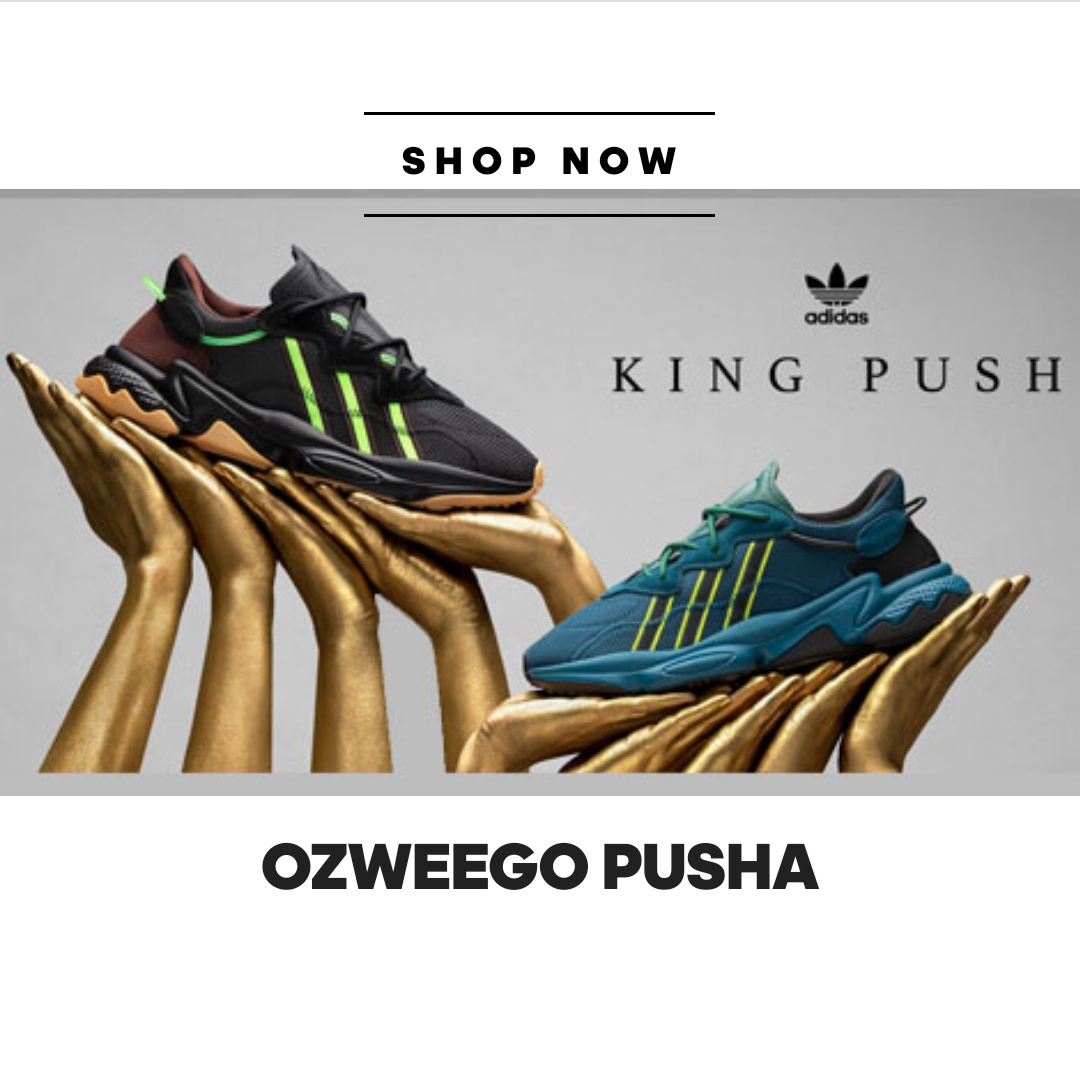
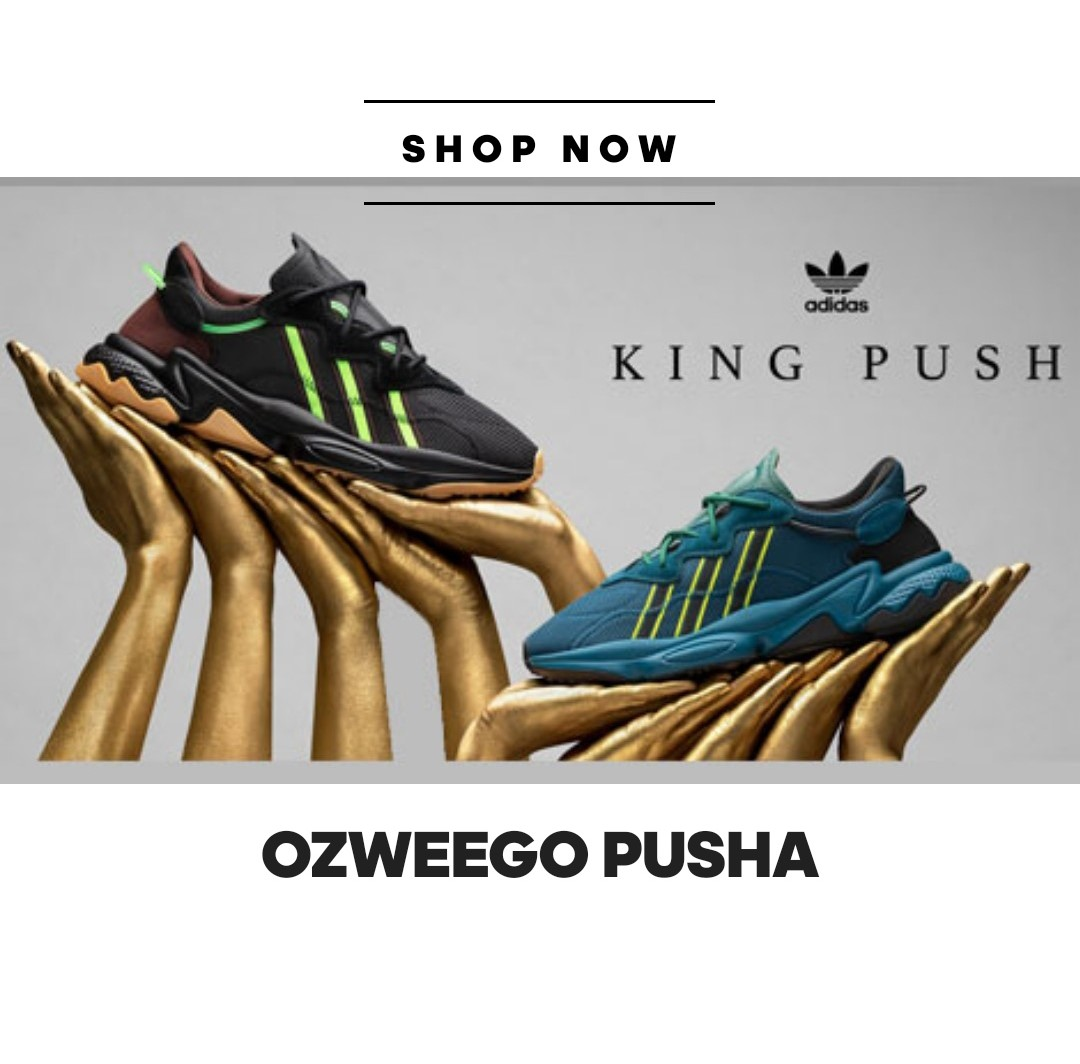
favourite page done

diff --git a/lib/widgets/favourite_page/card_brand.dart b/lib/widgets/favourite_page/card_brand.dart
@@ -2,40 +2,72 @@ import 'package:flutter/material.dart';
 import 'package:shoes/widgets/favourite_page/top_brand.dart';
 
 class CardBrand extends StatelessWidget {
+  String name;
+  String desc;
+  String image;
+  CardBrand(String dataName, String dataDesc, String dataImage) {
+    this.name = dataName;
+    this.desc = dataDesc;
+    this.image = dataImage;
+  }
   @override
   Widget build(BuildContext context) {
     return Container(
       width: MediaQuery.of(context).size.width * 0.9,
-      margin: EdgeInsets.symmetric(vertical: 5),
+      margin: EdgeInsets.symmetric(vertical: 10),
       child: Card(
-        elevation: 5,
         child: Container(
           width: MediaQuery.of(context).size.width * 0.9,
+          decoration: BoxDecoration(
+            color: Colors.white,
+            boxShadow: [
+              BoxShadow(
+                blurRadius: 13.5,
+                color: Colors.grey,
+                offset: Offset(0, 5),
+              ),
+            ],
+          ),
           child: Row(
+            crossAxisAlignment: CrossAxisAlignment.start,
+            mainAxisAlignment: MainAxisAlignment.start,
             children: <Widget>[
-              TwoShoes(),
+              TwoShoes(image),
               Container(
                 width: 200,
+                padding: EdgeInsets.symmetric(vertical: 30),
                 child: Column(
                   children: <Widget>[
-                    Text(
-                      "Nama Brand",
-                      style: TextStyle(
-                        fontFamily: "D",
-                        fontSize: 18,
-                        fontWeight: FontWeight.bold,
+                    Container(
+                      height: 50,
+                      child: RichText(
+                        overflow: TextOverflow.ellipsis,
+                        text: TextSpan(
+                            style: TextStyle(
+                              fontFamily: "D",
+                              fontSize: 18,
+                              fontWeight: FontWeight.bold,
+                              color: Colors.black,
+                            ),
+                            text: name),
                       ),
                     ),
-                    SizedBox(
-                      height: 5,
-                    ),
-                    Text(
-                      "Deskripsi yang cukup panjangDeskripsi yang cukup panjang",
-                      style: TextStyle(
-                        fontFamily: "FL",
-                        fontSize: 14,
-                        fontWeight: FontWeight.bold,
-                        color: Colors.grey,
+                    Container(
+                      padding: EdgeInsets.only(right: 10),
+                      height: 85,
+                      child: RichText(
+                        textAlign: TextAlign.justify,
+                        overflow: TextOverflow.ellipsis,
+                        maxLines: 5,
+                        text: TextSpan(
+                          style: TextStyle(
+                            fontFamily: "FL",
+                            fontSize: 14,
+                            fontWeight: FontWeight.bold,
+                            color: Colors.grey,
+                          ),
+                          text: desc,
+                        ),
                       ),
                     ),
                   ],

diff --git a/lib/widgets/favourite_page/top_brand.dart b/lib/widgets/favourite_page/top_brand.dart
@@ -1,39 +1,61 @@
 import 'package:flutter/material.dart';
+import 'dart:math' as math;
 
 class TwoShoes extends StatelessWidget {
+  String image;
+  TwoShoes(this.image);
   @override
   Widget build(BuildContext context) {
     return Container(
-      width: 170,
-      height: 130,
+      width: 180,
+      height: 195,
       child: Stack(
         children: <Widget>[
           Positioned(
-            top: 83,
+            top: 115,
             left: 5,
             child: Container(
-              width: 125,
-              height: 35,
+              width: 150,
+              height: 45,
               decoration: BoxDecoration(
                 boxShadow: [
-                  BoxShadow(blurRadius: 20, color: Colors.grey),
+                  BoxShadow(
+                      blurRadius: 15,
+                      color: Color(0xb1858381).withOpacity(0.5)),
                 ],
               ),
             ),
           ),
           Positioned(
-            child: Image(
-              width: 130,
-              height: 130,
-              image: AssetImage("assets/images/ozwmcn.png"),
+            top: 5,
+            left: 5,
+            child: Transform(
+              alignment: Alignment.center,
+              transform: Matrix4.rotationY(math.pi),
+              child: Transform.rotate(
+                angle: -math.pi / 14,
+                child: Image(
+                  width: 160,
+                  height: 160,
+                  image: AssetImage(image),
+                ),
+              ),
             ),
           ),
           Positioned(
-            top: 1,
-            child: Image(
-              width: 150,
-              height: 150,
-              image: AssetImage("assets/images/ozwmcn.png"),
+            top: 30,
+            left: 0,
+            child: Transform(
+              alignment: Alignment.center,
+              transform: Matrix4.rotationY(math.pi),
+              child: Transform.rotate(
+                angle: -math.pi / 15,
+                child: Image(
+                  width: 170,
+                  height: 170,
+                  image: AssetImage(image),
+                ),
+              ),
             ),
           ),
         ],

diff --git a/lib/pages/home_page.dart b/lib/pages/home_page.dart
@@ -6,7 +6,6 @@ class HomePage extends StatelessWidget {
   @override
   Widget build(BuildContext context) {
     return Scaffold(
-      
       backgroundColor: Colors.white,
       body: ListView(
         children: <Widget>[
@@ -22,13 +21,6 @@ class HomePage extends StatelessWidget {
               image: AssetImage("assets/images/hongkong.jpg"),
             ),
           ),
-          Center(
-            child: Container(
-              height: 2,
-              width: MediaQuery.of(context).size.width - 50,
-              color: Colors.grey[300],
-            ),
-          ),
           GestureDetector(
             onTap: () {
               Navigator.of(context).push(
@@ -39,13 +31,6 @@ class HomePage extends StatelessWidget {
             },
             child: Image(
               image: AssetImage("assets/images/super.jpg"),
-            ),
-          ),
-          Center(
-            child: Container(
-              height: 2,
-              width: MediaQuery.of(context).size.width - 50,
-              color: Colors.grey[300],
             ),
           ),
           GestureDetector(
@@ -60,12 +45,8 @@ class HomePage extends StatelessWidget {
               image: AssetImage("assets/images/predator.jpg"),
             ),
           ),
-          Center(
-            child: Container(
-              height: 2,
-              width: MediaQuery.of(context).size.width - 50,
-              color: Colors.grey[300],
-            ),
+          SizedBox(
+            height: 20,
           ),
           GestureDetector(
             onTap: () {

diff --git a/lib/pages/favourite_page.dart b/lib/pages/favourite_page.dart
@@ -17,14 +17,28 @@ class FavouritePage extends StatelessWidget {
             ),
           ),
         ),
-        backgroundColor: Colors.grey[300],
+        backgroundColor: Colors.white,
       ),
       body: ListView(
         children: <Widget>[
-          SizedBox(height: 10,),
-          CardBrand(),
-          CardBrand(),
-          CardBrand(),
+          SizedBox(
+            height: 10,
+          ),
+          CardBrand(
+            "Adidas Nice Type",
+            "This is is a good product we have and now you can feel our best product This is is a good product we have and now you can feel our best product",
+            "assets/images/ozwp.png",
+          ),
+          CardBrand(
+            "Adidas Nice Type",
+            "This is is a good product we have and now you can feel our best product This is is a good product we have and now you can feel our best product",
+            "assets/images/ozwmcn.png",
+          ),
+          CardBrand(
+            "Adidas Nice Type",
+            "This is is a good product we have and now you can feel our best product This is is a good product we have and now you can feel our best product This is is a good product we have and now you can feel our best product This is is a good product we have and now you can feel our best productThis is is a good product we have and now you can feel our best product This is is a good product we have and now you can feel our best product",
+            "assets/images/ozwb.png",
+          ),
         ],
       ),
     );

diff --git a/lib/widgets/cart_page/card_chart.dart b/lib/widgets/cart_page/card_chart.dart
@@ -7,7 +7,7 @@ class CardChart extends StatefulWidget {
 }
 
 class _CardChartState extends State<CardChart> {
-  String sizeValue = "Ukuran";
+  String sizeValue = "Jumlah";
   @override
   Widget build(BuildContext context) {
     return Stack(
@@ -33,10 +33,10 @@ class _CardChartState extends State<CardChart> {
                     crossAxisAlignment: CrossAxisAlignment.start,
                     children: <Widget>[
                       Text(
-                        "Nama Sepatu Nama SepatuNama Sepatu",
+                        "Nama Sepatu Nama SepatuNama ",
                         style: TextStyle(
                             fontSize: 15,
-                            fontFamily: "D",
+                            fontFamily: "D", 
                             fontWeight: FontWeight.w600,
                             color: Colors.black),
                       ),
@@ -100,7 +100,7 @@ class _CardChartState extends State<CardChart> {
           child: Image(
             width: 95,
             height: 95,
-            image: AssetImage("assets/images/ozwbl.png"),
+            image: AssetImage("assets/images/ozwmcn.png"),
           ),
         ),
         Positioned(

diff --git a/lala.html b/lala.html
@@ -1,1 +1,3 @@
-Lorem ipsum dolor sit, amet consectetur adipisicing elit. Labore repudiandae sunt incidunt aliquam. Facilis, fugit ipsa! Omnis soluta consectetur placeat quod nisi, totam eaque aliquid magni fugiat earum dolorum quo?
+Lorem ipsum dolor sit, amet consectetur adipisicing elit. Labore repudiandae sunt incidunt aliquam. 
+
+<input type="date">

diff --git a/lib/widgets/detail_page/size_shoes.dart b/lib/widgets/detail_page/size_shoes.dart
@@ -1,8 +1,8 @@
 import 'package:flutter/material.dart';
 
 class SizeShoes extends StatelessWidget {
-  String size;
-  bool isSelected;
+  final String size;
+  final bool isSelected;
   SizeShoes(this.size, this.isSelected);
   @override
   Widget build(BuildContext context) {
